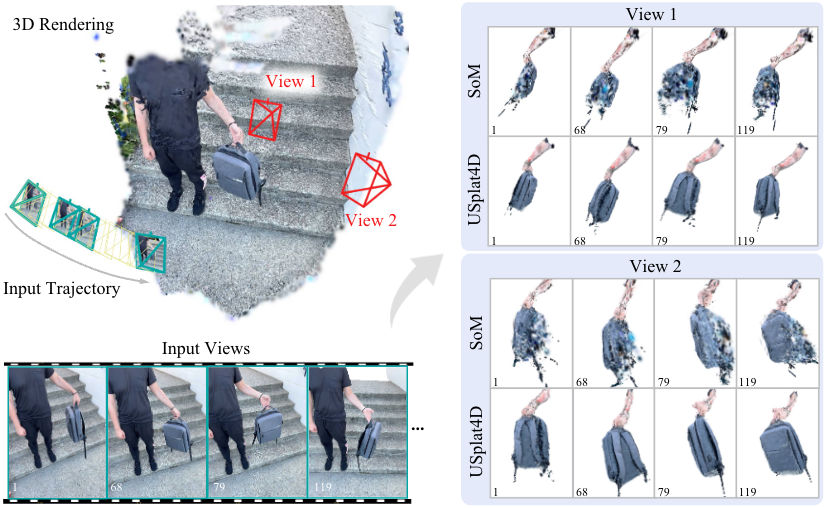
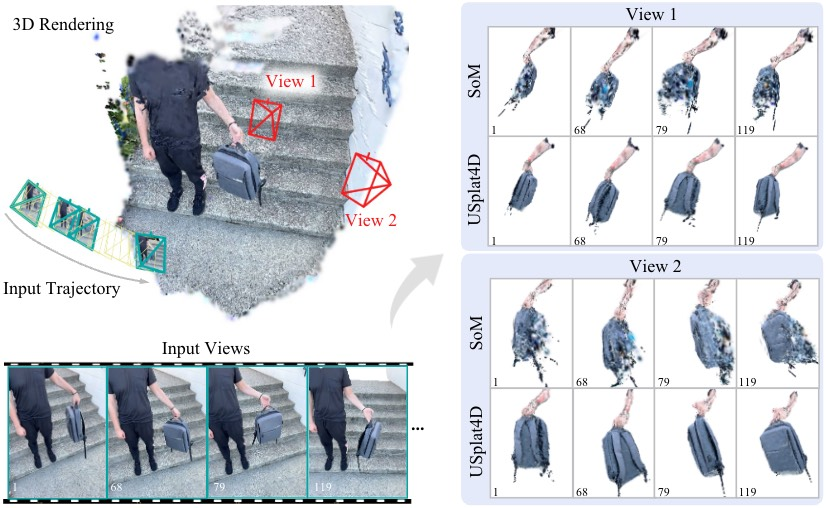
add national park

diff --git a/_includes/us_visited_states_map.html b/_includes/us_visited_states_map.html
@@ -280,13 +280,80 @@
 <title>District of Columbia</title></circle>
 
 <path class="separator1" fill="none" d="m 215,493 v 55 l 36,45 m -251,-168 h 147 l 68,68 h 85 l 54,54 v 46"/>
+
+<g class="landmarks">
+<circle class="landmark" cx="119.6" cy="496.5" r="4" data-city="Healy, AK"><title>Denali National Park</title></circle>
+<circle class="landmark" cx="105.8" cy="470.3" r="4" data-city="Bettles, AK"><title>Gates of the Arctic National Park</title></circle>
+<circle class="landmark" cx="187.5" cy="539.9" r="4" data-city="Gustavus, AK"><title>Glacier Bay National Park</title></circle>
+<circle class="landmark" cx="83.6" cy="539.1" r="4" data-city="King Salmon, AK"><title>Katmai National Park</title></circle>
+<circle class="landmark" cx="116.7" cy="526.2" r="4" data-city="Seward, AK"><title>Kenai Fjords National Park</title></circle>
+<circle class="landmark" cx="65.3" cy="465.1" r="4" data-city="Kotzebue, AK"><title>Kobuk Valley National Park</title></circle>
+<circle class="landmark" cx="91.2" cy="525.6" r="4" data-city="Port Alsworth, AK"><title>Lake Clark National Park</title></circle>
+<circle class="landmark" cx="152.4" cy="515.5" r="4" data-city="Copper Center, AK"><title>Wrangell-St. Elias National Park</title></circle>
+<circle class="landmark" cx="532.7" cy="379.6" r="4" data-city="Hot Springs, AR"><title>Hot Springs National Park</title></circle>
+<circle class="landmark" cx="190.0" cy="319.9" r="4" data-city="Tusayan, AZ"><title>Grand Canyon National Park</title></circle>
+<circle class="landmark" cx="238.1" cy="347.8" r="4" data-city="Holbrook, AZ"><title>Petrified Forest National Park</title></circle>
+<circle class="landmark" cx="219.0" cy="414.6" r="4" data-city="Tucson, AZ"><title>Saguaro National Park</title></circle>
+<circle class="landmark" cx="85.7" cy="343.9" r="4" data-city="Ventura, CA"><title>Channel Islands National Park</title></circle>
+<circle class="landmark" cx="118.1" cy="287.9" r="4" data-city="Furnace Creek, CA"><title>Death Valley National Park</title></circle>
+<circle class="landmark" cx="129.1" cy="346.7" r="4" data-city="Twentynine Palms, CA"><title>Joshua Tree National Park</title></circle>
+<circle class="landmark" cx="89.9" cy="281.0" r="4" data-city="Three Rivers, CA"><title>Kings Canyon National Park</title></circle>
+<circle class="landmark" cx="57.2" cy="186.1" r="4" data-city="Mineral, CA"><title>Lassen Volcanic National Park</title></circle>
+<circle class="landmark" cx="60.4" cy="287.2" r="4" data-city="Soledad, CA"><title>Pinnacles National Park</title></circle>
+<circle class="landmark" cx="20.1" cy="154.7" r="4" data-city="Crescent City, CA"><title>Redwood National Park</title></circle>
+<circle class="landmark" cx="91.8" cy="287.3" r="4" data-city="Three Rivers, CA"><title>Sequoia National Park</title></circle>
+<circle class="landmark" cx="81.7" cy="255.5" r="4" data-city="Mariposa, CA"><title>Yosemite National Park</title></circle>
+<circle class="landmark" cx="277.5" cy="283.6" r="4" data-city="Montrose, CO"><title>Black Canyon of the Gunnison National Park</title></circle>
+<circle class="landmark" cx="317.9" cy="304.8" r="4" data-city="Alamosa, CO"><title>Great Sand Dunes National Park</title></circle>
+<circle class="landmark" cx="264.4" cy="317.4" r="4" data-city="Cortez, CO"><title>Mesa Verde National Park</title></circle>
+<circle class="landmark visited" cx="314.8" cy="239.2" r="4" data-city="Estes Park, CO"><title>Rocky Mountain National Park</title></circle>
+<circle class="landmark" cx="787.5" cy="557.6" r="4" data-city="Homestead, FL"><title>Biscayne National Park</title></circle>
+<circle class="landmark" cx="735.5" cy="574.8" r="4" data-city="Key West, FL"><title>Dry Tortugas National Park</title></circle>
+<circle class="landmark" cx="782.3" cy="559.0" r="4" data-city="Homestead, FL"><title>Everglades National Park</title></circle>
+<circle class="landmark" cx="308.9" cy="541.9" r="4" data-city="Kula, HI"><title>Haleakala National Park</title></circle>
+<circle class="landmark" cx="328.2" cy="568.9" r="4" data-city="Volcano, HI"><title>Hawaii Volcanoes National Park</title></circle>
+<circle class="landmark" cx="634.4" cy="212.3" r="4" data-city="Chesterton, IN"><title>Indiana Dunes National Park</title></circle>
+<circle class="landmark" cx="652.6" cy="316.6" r="4" data-city="Cave City, KY"><title>Mammoth Cave National Park</title></circle>
+<circle class="landmark" cx="906.5" cy="104.9" r="4" data-city="Bar Harbor, ME"><title>Acadia National Park</title></circle>
+<circle class="landmark" cx="596.5" cy="81.6" r="4" data-city="Houghton, MI"><title>Isle Royale National Park</title></circle>
+<circle class="landmark" cx="523.2" cy="70.8" r="4" data-city="International Falls, MN"><title>Voyageurs National Park</title></circle>
+<circle class="landmark visited" cx="582.2" cy="288.4" r="4" data-city="St. Louis, MO"><title>Gateway Arch National Park</title></circle>
+<circle class="landmark" cx="214.4" cy="42.1" r="4" data-city="West Glacier, MT"><title>Glacier National Park</title></circle>
+<circle class="landmark" cx="365.5" cy="105.6" r="4" data-city="Medora, ND"><title>Theodore Roosevelt National Park</title></circle>
+<circle class="landmark" cx="326.8" cy="419.1" r="4" data-city="Carlsbad, NM"><title>Carlsbad Caverns National Park</title></circle>
+<circle class="landmark" cx="294.3" cy="405.1" r="4" data-city="Alamogordo, NM"><title>White Sands National Park</title></circle>
+<circle class="landmark" cx="185.4" cy="239.9" r="4" data-city="Baker, NV"><title>Great Basin National Park</title></circle>
+<circle class="landmark" cx="719.0" cy="218.1" r="4" data-city="Akron, OH"><title>Cuyahoga Valley National Park</title></circle>
+<circle class="landmark" cx="70.5" cy="152.5" r="4" data-city="Klamath Falls, OR"><title>Crater Lake National Park</title></circle>
+<circle class="landmark" cx="754.7" cy="376.6" r="4" data-city="Columbia, SC"><title>Congaree National Park</title></circle>
+<circle class="landmark" cx="385.3" cy="174.5" r="4" data-city="Wall, SD"><title>Badlands National Park</title></circle>
+<circle class="landmark" cx="360.6" cy="179.0" r="4" data-city="Hot Springs, SD"><title>Wind Cave National Park</title></circle>
+<circle class="landmark" cx="699.0" cy="347.6" r="4" data-city="Gatlinburg, TN"><title>Great Smoky Mountains National Park</title></circle>
+<circle class="landmark" cx="345.9" cy="493.8" r="4" data-city="Terlingua, TX"><title>Big Bend National Park</title></circle>
+<circle class="landmark" cx="314.6" cy="435.6" r="4" data-city="Carlsbad, NM"><title>Guadalupe Mountains National Park</title></circle>
+<circle class="landmark" cx="254.6" cy="268.3" r="4" data-city="Moab, UT"><title>Arches National Park</title></circle>
+<circle class="landmark" cx="204.4" cy="295.5" r="4" data-city="Bryce Canyon City, UT"><title>Bryce Canyon National Park</title></circle>
+<circle class="landmark" cx="250.2" cy="275.0" r="4" data-city="Moab, UT"><title>Canyonlands National Park</title></circle>
+<circle class="landmark" cx="222.0" cy="279.1" r="4" data-city="Torrey, UT"><title>Capitol Reef National Park</title></circle>
+<circle class="landmark" cx="188.4" cy="305.9" r="4" data-city="Springdale, UT"><title>Zion National Park</title></circle>
+<circle class="landmark" cx="784.3" cy="259.8" r="4" data-city="Front Royal, VA"><title>Shenandoah National Park</title></circle>
+<circle class="landmark" cx="103.6" cy="60.8" r="4" data-city="Ashford, WA"><title>Mount Rainier National Park</title></circle>
+<circle class="landmark" cx="111.3" cy="13.1" r="4" data-city="Marblemount, WA"><title>North Cascades National Park</title></circle>
+<circle class="landmark" cx="76.0" cy="35.3" r="4" data-city="Port Angeles, WA"><title>Olympic National Park</title></circle>
+<circle class="landmark" cx="734.3" cy="283.3" r="4" data-city="Fayetteville, WV"><title>New River Gorge National Park</title></circle>
+<circle class="landmark" cx="238.7" cy="164.4" r="4" data-city="Jackson, WY"><title>Grand Teton National Park</title></circle>
+<circle class="landmark" cx="237.1" cy="144.2" r="4" data-city="West Yellowstone, MT"><title>Yellowstone National Park</title></circle>
+</g>
     </svg>
   </div>
   <ul class="visited-states-map__legend">
-    <li class="visited-states-map__legend-item"><span class="visited-states-map__swatch visited-states-map__swatch--visited"></span>Visited</li>
-    <li class="visited-states-map__legend-item"><span class="visited-states-map__swatch"></span>Not yet</li>
+    <li class="visited-states-map__legend-item"><span class="visited-states-map__swatch visited-states-map__swatch--visited"></span>State visited</li>
+    <li class="visited-states-map__legend-item"><span class="visited-states-map__swatch"></span>State not yet</li>
+    <li class="visited-states-map__legend-item"><span class="visited-states-map__swatch visited-states-map__swatch--pin visited-states-map__swatch--pin-visited"></span>Park visited</li>
+    <li class="visited-states-map__legend-item"><span class="visited-states-map__swatch visited-states-map__swatch--pin"></span>Park not yet</li>
   </ul>
   <p class="visited-states-map__caption">4 states down, 46 to go.</p>
+  <p class="visited-states-map__caption">National parks: Gateway Arch, Rocky Mountain — 2 visited, 59 to go.</p>
   <div class="visited-states-map__tooltip" id="visited-states-map-tooltip"></div>
 </div>
 
@@ -295,16 +362,18 @@
     var container = document.getElementById('visited-states-map');
     if (!container) return;
     var tooltip = document.getElementById('visited-states-map-tooltip');
-    var states = container.querySelectorAll('.state > path');
+    var states = container.querySelectorAll('.state > path, .landmark');
 
     states.forEach(function (state) {
       var titleEl = state.querySelector('title');
       if (!titleEl) return;
       var name = titleEl.textContent;
       var visited = state.classList.contains('visited');
+      var isLandmark = state.classList.contains('landmark');
+      var city = state.getAttribute('data-city');
 
       state.addEventListener('mousemove', function (e) {
-        tooltip.textContent = name + (visited ? ' — visited' : '');
+        tooltip.textContent = isLandmark ? (name + ' — ' + city) : (name + (visited ? ' — visited' : ''));
         tooltip.style.left = e.clientX + 'px';
         tooltip.style.top = e.clientY + 'px';
         tooltip.classList.add('is-visible');

diff --git a/_sass/_travel_map.scss b/_sass/_travel_map.scss
@@ -57,6 +57,22 @@
       stroke-width: 1;
     }
 
+    .landmark {
+      fill: var(--global-bg-color);
+      stroke: var(--map-pin-unvisited-color);
+      stroke-width: 2;
+      transition: r 0.15s ease, stroke 0.15s ease;
+      cursor: pointer;
+    }
+
+    .landmark.visited {
+      stroke: var(--map-pin-visited-color);
+    }
+
+    .landmark:hover {
+      r: 6;
+    }
+
     .separator1 {
       fill: none;
       stroke: var(--global-divider-color);
@@ -91,6 +107,16 @@
 
     &--visited {
       background-color: var(--global-theme-color);
+    }
+
+    &--pin {
+      border-radius: 50%;
+      background-color: var(--global-bg-color);
+      border: 2px solid var(--map-pin-unvisited-color);
+    }
+
+    &--pin-visited {
+      border-color: var(--map-pin-visited-color);
     }
   }
 

diff --git a/_includes/figure.html b/_includes/figure.html
@@ -26,7 +26,7 @@
       {% if include.alt %}alt="{{ include.alt }}"{% endif %}
       {% if include.title %}title="{{ include.title }}"{% endif %}
       {% if include.zoomable %}data-zoomable{% endif %}
-      onerror="this.onerror=null; $('.responsive-img-srcset').remove();"
+      onerror="this.onerror=null; var p=this.closest('picture'); if (p) { p.querySelectorAll('.responsive-img-srcset').forEach(function(s){ s.remove(); }); }"
     />
   </picture>
 

diff --git a/_sass/_themes.scss b/_sass/_themes.scss
@@ -32,6 +32,8 @@
 
   --map-base-color: #dde1e7;
   --map-hover-color: #{darken(#dde1e7, 8%)};
+  --map-pin-unvisited-color: #8b93a1;
+  --map-pin-visited-color: #1ea54c;
 
   .fa-sun {
     display : none;
@@ -80,6 +82,8 @@ html[data-theme='dark'] {
 
   --map-base-color: #2f3136;
   --map-hover-color: #{lighten(#2f3136, 8%)};
+  --map-pin-unvisited-color: #b7bec9;
+  --map-pin-visited-color: #4ade80;
 
   .fa-sun {
     padding-left: 10px;
